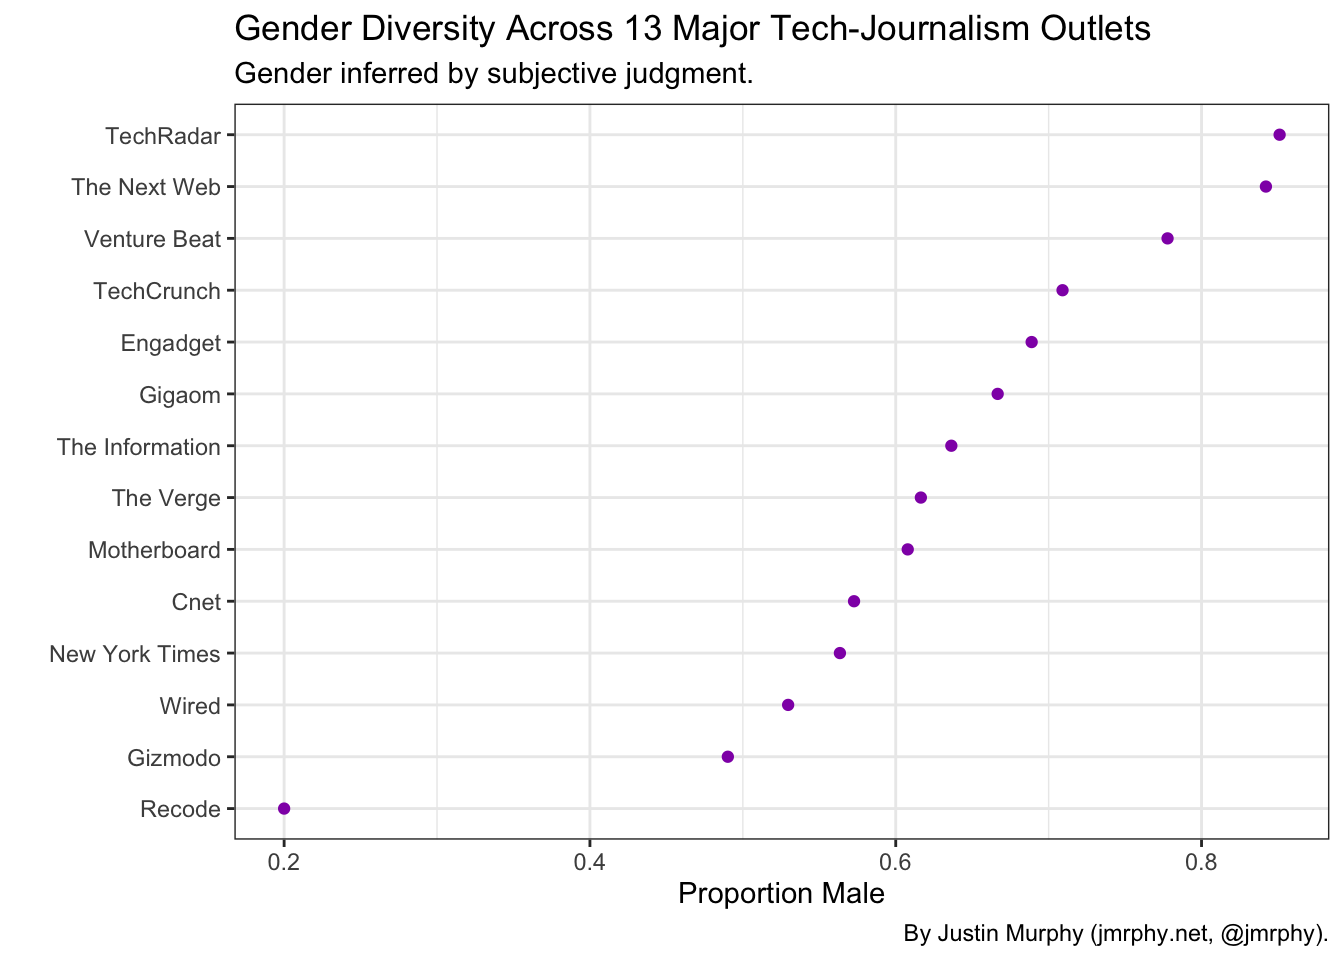
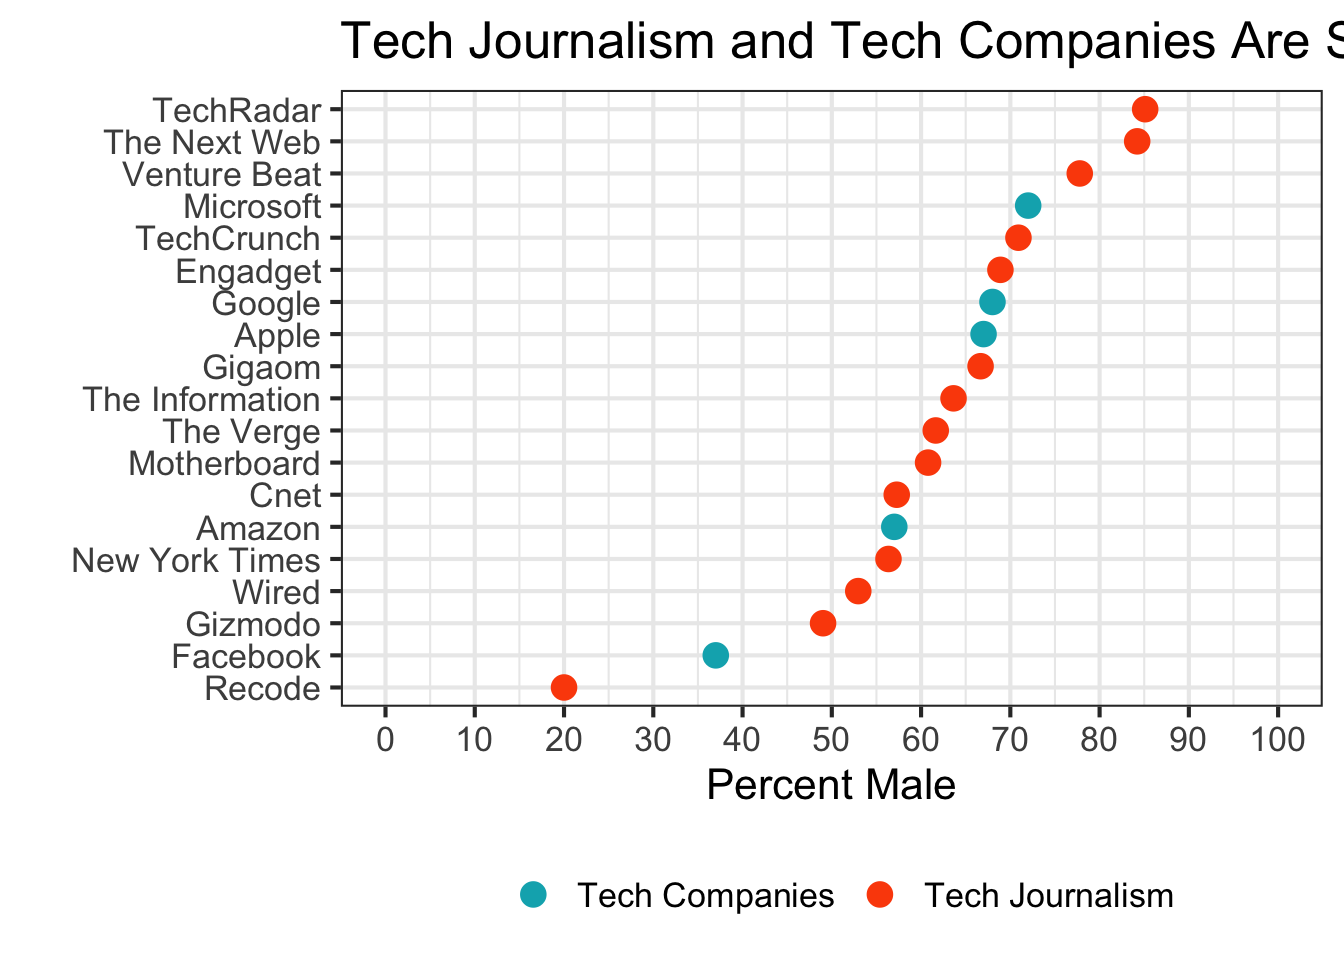
gender comparison graph

Changed region(s): [[0.0312, 0.0, 1.0, 1.0], [0.0938, 0.7812, 0.2188, 0.9062], [0.375, 0.9062, 0.4062, 0.9688]]

diff --git a/public/post/tech-journalism-is-less-diverse-than-tech-code-and-data/index.html b/public/post/tech-journalism-is-less-diverse-than-tech-code-and-data/index.html
@@ -134,7 +134,7 @@ Here is the final dataset with the estimated race and gender of 982 tech journal
   
   <meta property="article:published_time" content="2020-07-28T00:00:00&#43;00:00">
   
-  <meta property="article:modified_time" content="2020-07-30T14:37:10-06:00">
+  <meta property="article:modified_time" content="2020-07-30T15:21:35-06:00">
   
 
   
@@ -425,7 +425,7 @@ Here is the final dataset with the estimated race and gender of 982 tech journal
 
 
 <meta content="2020-07-28 00:00:00 &#43;0000 UTC" itemprop="datePublished">
-<meta content="2020-07-30 14:37:10 -0600 MDT" itemprop="dateModified">
+<meta content="2020-07-30 15:21:35 -0600 MDT" itemprop="dateModified">
 
 <div class="article-metadata">
 
@@ -449,7 +449,7 @@ Here is the final dataset with the estimated race and gender of 982 tech journal
   
   <span class="middot-divider"></span>
   <span class="article-reading-time">
-    22 min read
+    23 min read
   </span>
   
 
@@ -560,9 +560,9 @@ Here is the final dataset with the estimated race and gender of 982 tech journal
 </div>
 <div id="two-ways-of-estimating-race-and-gender" class="section level2">
 <h2>Two ways of estimating race and gender</h2>
-<p>Estimating race and gender is fraught. A method based on measurable, objective aspects of a person’s identity may fail to capture certain nuances in how race and gender are socially constructed. A method based on subjective human judgment might err by being inconsistent, ignorant, or prejudiced about how race and gender are assigned. To deal with the limitations of each method, we estimate race and gender through both methods: If the results are similar, we should be relatively confident in their accuracy.</p>
+<p>Estimating race and gender is fraught. A method based on measurable, algorithmic aspects of a person’s identity may fail to capture certain nuances in how race and gender are socially constructed. A method based on subjective human judgment might err by being inconsistent, ignorant, or prejudiced about how race and gender are assigned. To deal with the limitations of each method, we estimate race and gender through both methods: If the results are similar, we should be relatively confident in their accuracy.</p>
 <p><em>Subjective judgment.</em> Estimating race and gender through subjective judgment was straightforward, if not always possible: We looked at each Twitter account and inferred the individual’s race and gender holistically, using their profile photo, name, and context-clues in their bio. In most cases, the inference was unambiguous. In cases where either the gender or race was unclear, we assigned an “NA” for the given variable. Given some controversy over the race of Arab and Persian people (the US census says “white” but many people have contested this), we sidestep the matter by assigning Arabs and Persians “NA” for race. (There were only about 15 total so neither racial classification would have much effect on our key findings.)</p>
-<p><em>Objective judgment.</em> Alternatively, we leveraged data from the Census and the Social Security Administration to infer journalist’s race and gender from surnames and first names, respectively.</p>
+<p><em>Algorithmic judgment.</em> Alternatively, we leveraged data from the Census and the Social Security Administration to infer journalist’s race and gender from surnames and first names, respectively.</p>
 </div>
 <div id="note-on-the-analytic-virtue-of-using-twitter-data" class="section level2">
 <h2>Note on the analytic virtue of using Twitter data</h2>
@@ -586,8 +586,10 @@ require(gender)
 require(DT)
 require(grid)
 
-# Search for accounts mentioning tech-journalism outlets 
-
+# ==================================================
+#  Search for accounts mentioning tech-journalism outlets 
+#  It&#39;s not pretty, but it&#39;s readable for normies ;-)
+# ================================================== 
 
 v1 &lt;- search_users(&quot;reporter Verge&quot;, n = 1000)
 v2 &lt;- search_users(&quot;journalist Verge&quot;, n = 1000)
@@ -899,21 +901,47 @@ main.graph.df %&gt;%
        theme(legend.title=element_blank()) +
   scale_y_continuous(breaks = seq(0, 100, by = 10), limits=(c(0,100)))</code></pre>
 <p><img src="/post/2020-07-28-tech-journalism_files/figure-html/analysis-sample-1-1.png" width="672" /></p>
-<pre class="r"><code># Visualize overall stats for subjectively assigned race
-df %&gt;%
+<p>Next, let’s consider gender diversity in tech journalism relative to gender diversity in the big five tech companies. Facebook reports a workforce that’s 37% male. Google is 68% male. Microsoft is 72% male. Amazon is 57% male. Apple is 67% male.</p>
+<pre class="r"><code>gender.graph.df&lt;-df %&gt;%
   drop_na(subjective_gender) %&gt;%
   group_by(outlet, subjective_gender) %&gt;%
   summarise(n = n()) %&gt;%
   mutate(Percent = n / sum(n)) %&gt;%
   filter(subjective_gender==&quot;Male&quot;) %&gt;%
-  ggplot(aes(x=fct_reorder(outlet, Percent), y=Percent)) +
-  geom_point(color = &quot;#9124b5&quot;) +
+  select(outlet, Percent) %&gt;%
+  mutate(Percent = Percent*100)
+
+# Add tech company workforces stats
+outlet&lt;-c(&quot;Facebook&quot;, &quot;Google&quot;, &quot;Microsoft&quot;, &quot;Amazon&quot;, &quot;Apple&quot;)
+Percent&lt;-c(37, 68, 72, 57, 67)
+tech.df&lt;-as.data.frame(cbind(outlet, Percent))
+tech.df$Percent&lt;-as.numeric(levels(tech.df$Percent))[tech.df$Percent]
+
+# Wrangle the two together
+gender.graph.df&lt;-bind_rows(gender.graph.df, tech.df)</code></pre>
+<pre><code>## Warning in bind_rows_(x, .id): Unequal factor levels: coercing to character</code></pre>
+<pre><code>## Warning in bind_rows_(x, .id): binding character and factor vector,
+## coercing into character vector
+
+## Warning in bind_rows_(x, .id): binding character and factor vector,
+## coercing into character vector</code></pre>
+<pre class="r"><code>gender.graph.df$Type &lt;- NA
+gender.graph.df$Type[1:14] &lt;- &quot;Tech Journalism&quot;
+gender.graph.df$Type[15:19] &lt;- &quot;Tech Companies&quot;
+
+# Create gender comparison graph
+gender.graph.df %&gt;%
+  ggplot(aes(x=fct_reorder(outlet, Percent), y=Percent, colour=Type)) +
+  geom_point(size=4) +
   coord_flip() +
-  theme_bw() +
-  labs(x=&quot;&quot;, y=&quot;Proportion Male&quot;,
-       title=&quot;Gender Diversity Across 13 Major Tech-Journalism Outlets&quot;,
-       subtitle = &quot;Gender inferred by subjective judgment.&quot;,
-       caption= &quot;By Justin Murphy (jmrphy.net, @jmrphy).&quot;)</code></pre>
+  theme_bw(base_size = 16) +
+  labs(x=&quot;&quot;, y=&quot;Percent Male&quot;,
+       title=&quot;Tech Journalism and Tech Companies Are Similar on Gender&quot;) +
+       #subtitle = &quot;Percent male, tech journalists vs. tech companies&quot;) +
+       theme(legend.position=&quot;bottom&quot;) +
+       theme(legend.title=element_blank()) +
+  scale_y_continuous(breaks = seq(0, 100, by = 10), limits=(c(0,100))) +
+  scale_colour_manual(values = c(&quot;#00AFBB&quot;,&quot;#FC4E07&quot;))</code></pre>
 <p><img src="/post/2020-07-28-tech-journalism_files/figure-html/unnamed-chunk-2-1.png" width="672" /></p>
 <pre class="r"><code># Calculate overall stats for subjectively assigned gender
 # summary(df$subjective_gender)</code></pre>

diff --git a/content/post/2020-07-28-tech-journalism.html b/content/post/2020-07-28-tech-journalism.html
@@ -43,9 +43,9 @@ projects: []
 </div>
 <div id="two-ways-of-estimating-race-and-gender" class="section level2">
 <h2>Two ways of estimating race and gender</h2>
-<p>Estimating race and gender is fraught. A method based on measurable, objective aspects of a person’s identity may fail to capture certain nuances in how race and gender are socially constructed. A method based on subjective human judgment might err by being inconsistent, ignorant, or prejudiced about how race and gender are assigned. To deal with the limitations of each method, we estimate race and gender through both methods: If the results are similar, we should be relatively confident in their accuracy.</p>
+<p>Estimating race and gender is fraught. A method based on measurable, algorithmic aspects of a person’s identity may fail to capture certain nuances in how race and gender are socially constructed. A method based on subjective human judgment might err by being inconsistent, ignorant, or prejudiced about how race and gender are assigned. To deal with the limitations of each method, we estimate race and gender through both methods: If the results are similar, we should be relatively confident in their accuracy.</p>
 <p><em>Subjective judgment.</em> Estimating race and gender through subjective judgment was straightforward, if not always possible: We looked at each Twitter account and inferred the individual’s race and gender holistically, using their profile photo, name, and context-clues in their bio. In most cases, the inference was unambiguous. In cases where either the gender or race was unclear, we assigned an “NA” for the given variable. Given some controversy over the race of Arab and Persian people (the US census says “white” but many people have contested this), we sidestep the matter by assigning Arabs and Persians “NA” for race. (There were only about 15 total so neither racial classification would have much effect on our key findings.)</p>
-<p><em>Objective judgment.</em> Alternatively, we leveraged data from the Census and the Social Security Administration to infer journalist’s race and gender from surnames and first names, respectively.</p>
+<p><em>Algorithmic judgment.</em> Alternatively, we leveraged data from the Census and the Social Security Administration to infer journalist’s race and gender from surnames and first names, respectively.</p>
 </div>
 <div id="note-on-the-analytic-virtue-of-using-twitter-data" class="section level2">
 <h2>Note on the analytic virtue of using Twitter data</h2>
@@ -69,8 +69,10 @@ require(gender)
 require(DT)
 require(grid)
 
-# Search for accounts mentioning tech-journalism outlets 
-
+# ==================================================
+#  Search for accounts mentioning tech-journalism outlets 
+#  It&#39;s not pretty, but it&#39;s readable for normies ;-)
+# ================================================== 
 
 v1 &lt;- search_users(&quot;reporter Verge&quot;, n = 1000)
 v2 &lt;- search_users(&quot;journalist Verge&quot;, n = 1000)
@@ -382,21 +384,47 @@ main.graph.df %&gt;%
        theme(legend.title=element_blank()) +
   scale_y_continuous(breaks = seq(0, 100, by = 10), limits=(c(0,100)))</code></pre>
 <p><img src="/post/2020-07-28-tech-journalism_files/figure-html/analysis-sample-1-1.png" width="672" /></p>
-<pre class="r"><code># Visualize overall stats for subjectively assigned race
-df %&gt;%
+<p>Next, let’s consider gender diversity in tech journalism relative to gender diversity in the big five tech companies. Facebook reports a workforce that’s 37% male. Google is 68% male. Microsoft is 72% male. Amazon is 57% male. Apple is 67% male.</p>
+<pre class="r"><code>gender.graph.df&lt;-df %&gt;%
   drop_na(subjective_gender) %&gt;%
   group_by(outlet, subjective_gender) %&gt;%
   summarise(n = n()) %&gt;%
   mutate(Percent = n / sum(n)) %&gt;%
   filter(subjective_gender==&quot;Male&quot;) %&gt;%
-  ggplot(aes(x=fct_reorder(outlet, Percent), y=Percent)) +
-  geom_point(color = &quot;#9124b5&quot;) +
+  select(outlet, Percent) %&gt;%
+  mutate(Percent = Percent*100)
+
+# Add tech company workforces stats
+outlet&lt;-c(&quot;Facebook&quot;, &quot;Google&quot;, &quot;Microsoft&quot;, &quot;Amazon&quot;, &quot;Apple&quot;)
+Percent&lt;-c(37, 68, 72, 57, 67)
+tech.df&lt;-as.data.frame(cbind(outlet, Percent))
+tech.df$Percent&lt;-as.numeric(levels(tech.df$Percent))[tech.df$Percent]
+
+# Wrangle the two together
+gender.graph.df&lt;-bind_rows(gender.graph.df, tech.df)</code></pre>
+<pre><code>## Warning in bind_rows_(x, .id): Unequal factor levels: coercing to character</code></pre>
+<pre><code>## Warning in bind_rows_(x, .id): binding character and factor vector,
+## coercing into character vector
+
+## Warning in bind_rows_(x, .id): binding character and factor vector,
+## coercing into character vector</code></pre>
+<pre class="r"><code>gender.graph.df$Type &lt;- NA
+gender.graph.df$Type[1:14] &lt;- &quot;Tech Journalism&quot;
+gender.graph.df$Type[15:19] &lt;- &quot;Tech Companies&quot;
+
+# Create gender comparison graph
+gender.graph.df %&gt;%
+  ggplot(aes(x=fct_reorder(outlet, Percent), y=Percent, colour=Type)) +
+  geom_point(size=4) +
   coord_flip() +
-  theme_bw() +
-  labs(x=&quot;&quot;, y=&quot;Proportion Male&quot;,
-       title=&quot;Gender Diversity Across 13 Major Tech-Journalism Outlets&quot;,
-       subtitle = &quot;Gender inferred by subjective judgment.&quot;,
-       caption= &quot;By Justin Murphy (jmrphy.net, @jmrphy).&quot;)</code></pre>
+  theme_bw(base_size = 16) +
+  labs(x=&quot;&quot;, y=&quot;Percent Male&quot;,
+       title=&quot;Tech Journalism and Tech Companies Are Similar on Gender&quot;) +
+       #subtitle = &quot;Percent male, tech journalists vs. tech companies&quot;) +
+       theme(legend.position=&quot;bottom&quot;) +
+       theme(legend.title=element_blank()) +
+  scale_y_continuous(breaks = seq(0, 100, by = 10), limits=(c(0,100))) +
+  scale_colour_manual(values = c(&quot;#00AFBB&quot;,&quot;#FC4E07&quot;))</code></pre>
 <p><img src="/post/2020-07-28-tech-journalism_files/figure-html/unnamed-chunk-2-1.png" width="672" /></p>
 <pre class="r"><code># Calculate overall stats for subjectively assigned gender
 # summary(df$subjective_gender)</code></pre>

diff --git a/public/index.html b/public/index.html
@@ -722,7 +722,7 @@
 
 
 <meta content="2020-07-28 00:00:00 &#43;0000 UTC" itemprop="datePublished">
-<meta content="2020-07-30 14:37:10 -0600 MDT" itemprop="dateModified">
+<meta content="2020-07-30 15:21:35 -0600 MDT" itemprop="dateModified">
 
 <div class="article-metadata">
 
@@ -746,7 +746,7 @@
   
   <span class="middot-divider"></span>
   <span class="article-reading-time">
-    22 min read
+    23 min read
   </span>
   
 

diff --git a/public/post/index.html b/public/post/index.html
@@ -468,7 +468,7 @@
 
 
 <meta content="2020-07-28 00:00:00 &#43;0000 UTC" itemprop="datePublished">
-<meta content="2020-07-30 14:37:10 -0600 MDT" itemprop="dateModified">
+<meta content="2020-07-30 15:21:35 -0600 MDT" itemprop="dateModified">
 
 <div class="article-metadata">
 
@@ -492,7 +492,7 @@
   
   <span class="middot-divider"></span>
   <span class="article-reading-time">
-    22 min read
+    23 min read
   </span>
   
 
